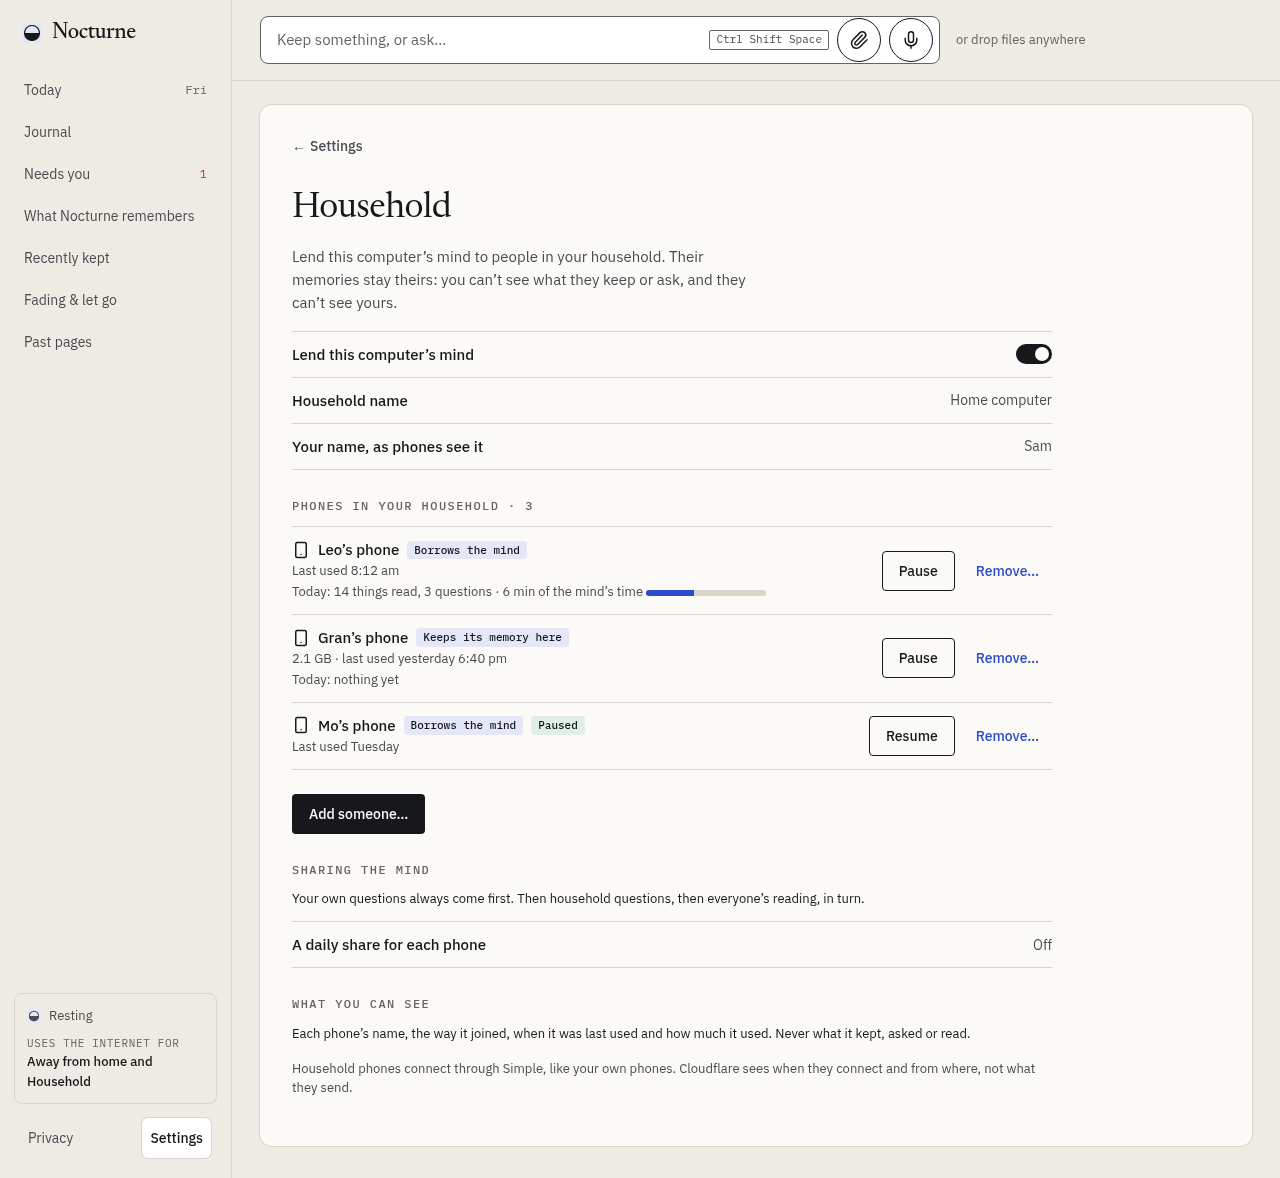
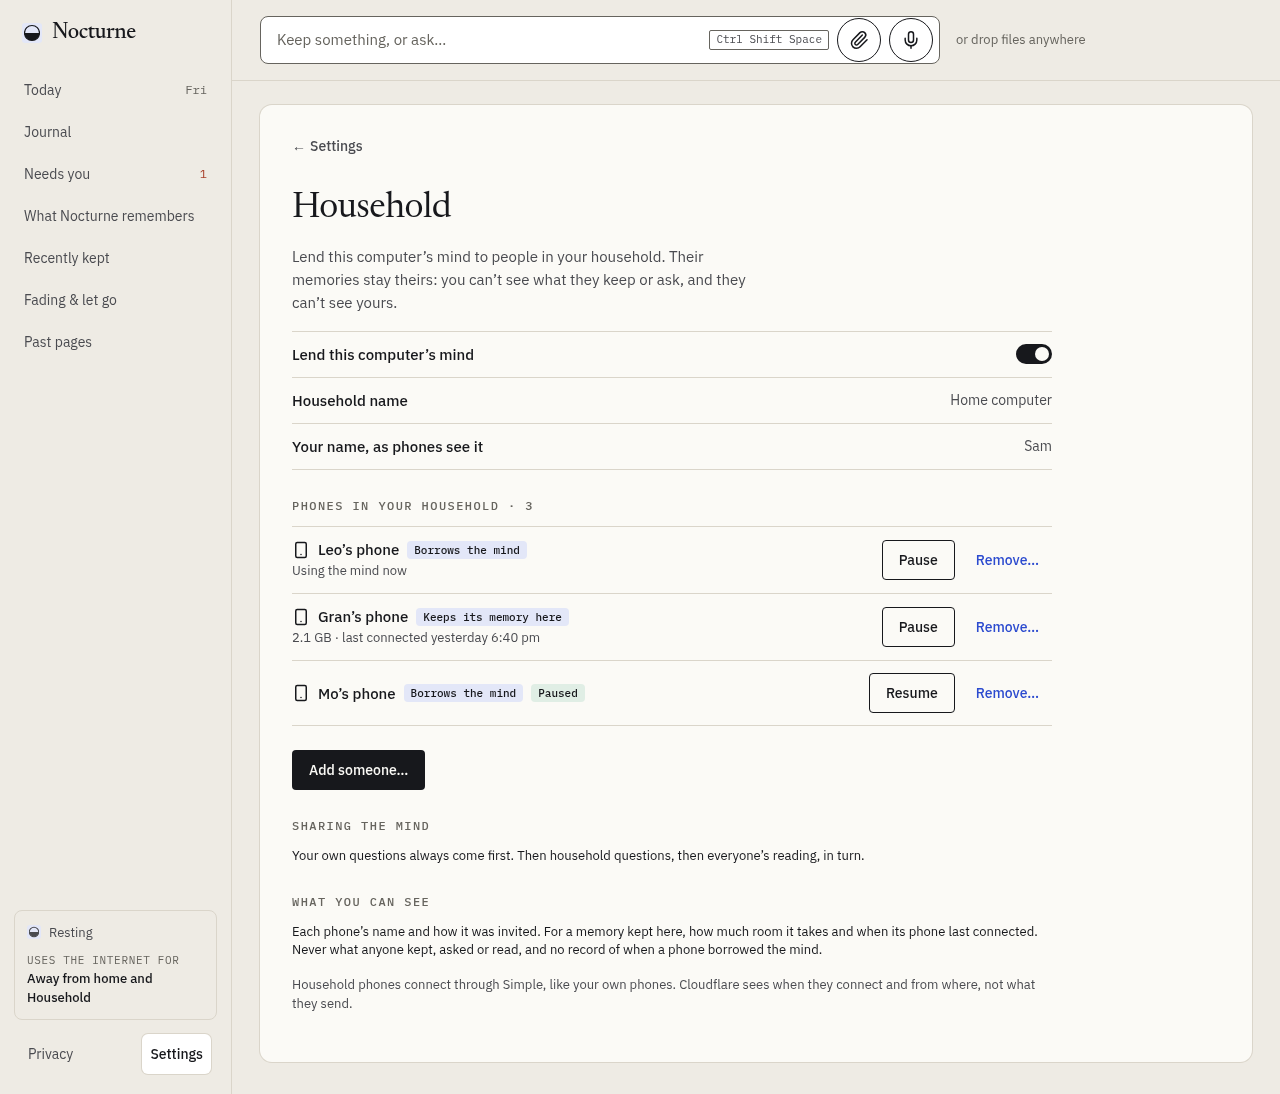
docs(design): redraw the household mockups

diff --git a/docs/design/mockups/phone-parity/desktop-household.html b/docs/design/mockups/phone-parity/desktop-household.html
@@ -24,15 +24,15 @@
       <h2 class="label">Phones in your household · 3</h2>
       <ul class="oRows">
         <li class="oRow hhRow">
-          <span class="oText"><span class="oLabel"><span data-icon="phone" data-size="18"></span>Leo’s phone <span class="wayTag">Borrows the mind</span></span><span class="oHint">Last used 8:12 am</span><span class="oHint">Today: 14 things read, 3 questions · 6 min of the mind’s time <span class="useBar"><span style="width: 40%"></span></span></span></span>
+          <span class="oText"><span class="oLabel"><span data-icon="phone" data-size="18"></span>Leo’s phone <span class="wayTag">Borrows the mind</span></span><span class="oHint">Using the mind now</span></span>
           <span class="oActs"><span class="button" data-variant="secondary">Pause</span><span class="button" data-variant="quiet">Remove…</span></span>
         </li>
         <li class="oRow hhRow">
-          <span class="oText"><span class="oLabel"><span data-icon="phone" data-size="18"></span>Gran’s phone <span class="wayTag">Keeps its memory here</span></span><span class="oHint">2.1 GB · last used yesterday 6:40 pm</span><span class="oHint">Today: nothing yet</span></span>
+          <span class="oText"><span class="oLabel"><span data-icon="phone" data-size="18"></span>Gran’s phone <span class="wayTag">Keeps its memory here</span></span><span class="oHint">2.1 GB · last connected yesterday 6:40 pm</span></span>
           <span class="oActs"><span class="button" data-variant="secondary">Pause</span><span class="button" data-variant="quiet">Remove…</span></span>
         </li>
         <li class="oRow hhRow">
-          <span class="oText"><span class="oLabel"><span data-icon="phone" data-size="18"></span>Mo’s phone <span class="wayTag">Borrows the mind</span> <span class="tagPaused">Paused</span></span><span class="oHint">Last used Tuesday</span></span>
+          <span class="oText"><span class="oLabel"><span data-icon="phone" data-size="18"></span>Mo’s phone <span class="wayTag">Borrows the mind</span> <span class="tagPaused">Paused</span></span></span>
           <span class="oActs"><span class="button" data-variant="secondary">Resume</span><span class="button" data-variant="quiet">Remove…</span></span>
         </li>
       </ul>
@@ -42,12 +42,11 @@
     <div class="section" style="padding-top: var(--s-3)">
       <h2 class="label">Sharing the mind</h2>
       <p class="small" style="color: var(--ink)">Your own questions always come first. Then household questions, then everyone’s reading, in turn.</p>
-      <ul class="oRows"><li class="oRow"><span class="oText"><span class="oLabel">A daily share for each phone</span></span><span class="oValue">Off</span></li></ul>
     </div>
 
     <div class="section" style="padding-top: var(--s-3)">
       <h2 class="label">What you can see</h2>
-      <p class="small" style="color: var(--ink)">Each phone’s name, the way it joined, when it was last used and how much it used. Never what it kept, asked or read.</p>
+      <p class="small" style="color: var(--ink)">Each phone’s name and how it was invited. For a memory kept here, how much room it takes and when its phone last connected. Never what anyone kept, asked or read, and no record of when a phone borrowed the mind.</p>
     </div>
     <p class="small">Household phones connect through Simple, like your own phones. Cloudflare sees when they connect and from where, not what they send.</p>
   </div>
@@ -56,6 +55,11 @@
   <div data-state="add" style="display: flex; flex-direction: column; gap: var(--s-4); max-width: 720px">
     <a class="back" href="#"><span aria-hidden="true">←</span> Household</a>
     <h1 class="stepTitle">Add someone to your household</h1>
+    <p class="label" style="margin: 0">How should this computer help them?</p>
+    <div class="choices" style="display: flex; flex-direction: column; gap: var(--s-2)">
+      <label class="oRow" style="display: flex; justify-content: flex-start; align-items: flex-start; gap: var(--s-3)"><input type="radio" name="way" checked> <span class="oText"><span class="oLabel">Borrow its mind</span><span class="oHint">Their memory stays on their phone. This computer reads and answers for them and keeps nothing of theirs.</span></span></label>
+      <label class="oRow" style="display: flex; justify-content: flex-start; align-items: flex-start; gap: var(--s-3)"><input type="radio" name="way"> <span class="oText"><span class="oLabel">Keep their memory here</span><span class="oHint">Their memory moves here and lives here, locked with a key their phone holds. Their phone then works with it.</span></span></label>
+    </div>
     <p class="lead">Ask them to open Nocturne on their phone, choose Join a household, and scan this.</p>
     <div style="display: flex; gap: var(--s-6); align-items: flex-start">
       <span class="qrBox"><span data-qr="200"></span></span>
@@ -66,7 +70,7 @@
         <p class="small">This code works for 5 minutes, once.</p>
       </div>
     </div>
-    <p class="notice" style="padding: var(--s-3); border-radius: var(--r-md); background: var(--accent-soft)">Anyone with this code can ask to join. You still choose Allow, and you see the way they want to join first.</p>
+    <p class="notice" style="padding: var(--s-3); border-radius: var(--r-md); background: var(--accent-soft)">Anyone with this code can ask to join, only in the way you chose. You still choose Allow.</p>
     <div class="buttons"><span class="button" data-variant="primary">Done</span></div>
   </div>
 </div>
@@ -77,7 +81,7 @@
       <h2 id="at" class="dialogTitle">Allow Leo’s phone to join your household?</h2>
       <p class="muted">Check Leo’s phone shows the same three words.</p>
       <p style="font: 400 1.5rem / 1.3 var(--font-serif)">harbour · violet · kettle</p>
-      <p><strong style="font-weight: 500">It wants to borrow this computer’s mind.</strong><br>Its memory stays on its phone. This computer reads and answers for it and keeps nothing.</p>
+      <p><strong style="font-weight: 500">You invited it to borrow this computer’s mind.</strong><br>Its memory stays on its phone. This computer reads and answers for it and keeps nothing of it.</p>
       <p class="small">If a phone that isn’t showing three words asks to join, someone else is trying. Don’t allow it.</p>
       <div class="buttons" style="justify-content: flex-end">
         <span class="button" data-variant="secondary" style="box-shadow: 0 0 0 2px var(--sheet), 0 0 0 4px var(--accent)">Don’t allow</span>

diff --git a/docs/design/mockups/phone-parity/household.html b/docs/design/mockups/phone-parity/household.html
@@ -15,7 +15,7 @@
 }
 </script>
 </head>
-<body data-frame="duo" data-states="found choose see passphrase words joined">
+<body data-frame="duo" data-states="found see passphrase words joined">
 <main id="content">
 
   <!-- Found -->
@@ -23,18 +23,9 @@
     <span data-icon="laptop" data-size="36"></span>
     <h1 class="stepH">Join Hallway’s household?</h1>
     <p class="pstatus"><span data-icon="user" data-size="16"></span>Run by Tom</p>
-    <p class="plead">Hallway is a computer at home that runs Nocturne. Next, choose how it should help you.</p>
+    <p class="plead">Tom invited this phone to borrow Hallway’s mind. Hallway is a computer at home that runs Nocturne.</p>
   </div>
   <div class="foot" data-state="found"><span class="btn" data-kind="primary">Continue</span><span class="btn" data-kind="quiet">Cancel</span></div>
-
-  <!-- How should it help you? -->
-  <h1 class="stepH" data-state="choose">How should Hallway help you?</h1>
-  <div class="choices" data-state="choose">
-    <div class="choice" data-on><span class="rad"></span><span><strong>Borrow its mind</strong><span class="hint">Your memory stays on this phone. Hallway reads and answers for you, and keeps nothing.</span></span></div>
-    <div class="choice"><span class="rad"></span><span><strong>Keep my memory there</strong><span class="hint">Hallway keeps your memory, locked with a key this phone holds, and reads it overnight. This phone keeps what you add until it can reach Hallway.</span></span></div>
-  </div>
-  <p class="small" data-state="choose">You can change this later.</p>
-  <div class="foot" data-state="choose"><span class="btn" data-kind="primary">Continue</span><span class="btn" data-kind="quiet">Back</span></div>
 
   <!-- What the person who runs it can see (borrowing) -->
   <h1 class="stepH" data-state="see">What Tom can see</h1>
@@ -42,15 +33,16 @@
   <ul class="see" data-state="see">
     <li><span data-icon="check" data-size="18"></span><span>This phone’s name</span></li>
     <li><span data-icon="check" data-size="18"></span><span>That it borrows Hallway’s mind</span></li>
-    <li><span data-icon="check" data-size="18"></span><span>When it last used it, and how much: how many things were read, how many questions, and the mind’s time</span></li>
+    <li><span data-icon="check" data-size="18"></span><span>Whether it is using the mind right now</span></li>
   </ul>
   <p class="seeHead" data-state="see">Tom can’t see, in Nocturne</p>
   <ul class="see no" data-state="see">
     <li><span data-icon="x" data-size="18"></span><span>What you keep, ask or write</span></li>
     <li><span data-icon="x" data-size="18"></span><span>Your answers, your page or your journal</span></li>
     <li><span data-icon="x" data-size="18"></span><span>Your calendar and health</span></li>
+    <li><span data-icon="x" data-size="18"></span><span>When or how much you used the mind</span></li>
   </ul>
-  <p class="small" data-state="see" style="color: var(--ink)">Hallway reads each thing in its memory while it works on it, then lets it go. It keeps nothing, and no record of what it read. Things you marked private never go to Hallway. No one else in the household sees anything of yours, and you see nothing of theirs.</p>
+  <p class="small" data-state="see" style="color: var(--ink)">Hallway reads each thing in its memory while it works on it, then lets it go. It keeps nothing of yours: no copy, no file, and no record of what it read or when. It keeps only this phone’s name and the key that lets it in. Things you marked private never go to Hallway. No one else in the household sees anything of yours, and you see nothing of theirs.</p>
   <p class="limit" data-state="see">Someone with full control of Hallway could change Nocturne on it to look at what it reads. Nocturne can’t prevent that. Join only a household you trust.</p>
   <div class="foot" data-state="see"><span class="btn" data-kind="primary">Continue</span><span class="btn" data-kind="quiet">Back</span></div>
 

diff --git a/docs/design/mockups/phone-parity/this-phone.html b/docs/design/mockups/phone-parity/this-phone.html
@@ -35,10 +35,10 @@
   <div class="group" data-state="guest member">
     <p class="ghead">Household</p>
     <div class="rows">
-      <div class="row"><span data-icon="laptop" data-size="22"></span><span class="rowText"><span class="rowLabel">Hallway</span><span class="rowHint" data-state="guest">Run by Tom · borrows its mind</span><span class="rowHint" data-state="member">Run by Tom · keeps your memory</span></span></div>
+      <div class="row"><span data-icon="laptop" data-size="22"></span><span class="rowText"><span class="rowLabel">Hallway</span><span class="rowHint" data-state="guest">Run by Tom · borrows its mind</span><span class="rowHint" data-state="member">Run by Tom · your memory’s home</span></span></div>
       <div class="row"><span class="rowText"><span class="rowLabel">What Tom can see</span></span><span class="rowChev" data-icon="chevron-right" data-size="18"></span></div>
       <div class="row" data-state="guest"><span class="rowText"><span class="rowLabel">This month</span><span class="rowHint">214 things read, 31 questions</span></span></div>
-      <div class="row" data-state="guest"><span class="rowText"><span class="rowLabel">Change how Hallway helps you…</span></span><span class="rowChev" data-icon="chevron-right" data-size="18"></span></div>
+      <div class="row" data-state="guest"><span class="rowText"><span class="rowLabel">Keep my memory on Hallway…</span></span><span class="rowChev" data-icon="chevron-right" data-size="18"></span></div>
       <div class="row" data-state="member"><span class="rowText"><span class="rowLabel">Move my memory…</span></span><span class="rowChev" data-icon="chevron-right" data-size="18"></span></div>
       <div class="row"><span class="rowText"><span class="rowLabel" style="color: var(--ember)">Leave this household…</span></span></div>
     </div>

diff --git a/docs/design/mockups/phone-parity/index.html b/docs/design/mockups/phone-parity/index.html
@@ -39,9 +39,8 @@
   <h2 class="t-ui-title">A household</h2>
   <ol>
     <li><a href="household.html?state=found">Join Hallway’s household?</a></li>
-    <li><a href="household.html?state=choose">How should Hallway help you?</a></li>
     <li><a href="household.html?state=see">What Tom can see</a></li>
-    <li><a href="household.html?state=passphrase">A passphrase for a memory kept there</a></li>
+    <li><a href="household.html?state=passphrase">A passphrase, making Hallway your home</a></li>
     <li><a href="household.html?state=words">Three words</a></li>
     <li><a href="household.html?state=joined">Joined</a></li>
     <li><a href="away.html?state=today">Hallway out of reach, still recording</a></li>

diff --git a/docs/design/phone-parity.md b/docs/design/phone-parity.md
@@ -36,22 +36,6 @@ Android (412 by 892) and iPhone (393 by 852) side by side, rendered 920 by 1000.
 are 1280 wide, full length. A dashed outline marks what is new on an existing screen; it is not part
 of the design. All names and data are fictional.
 
-The owner's decisions changed the household. Where a mockup still shows a phone choosing "Keep my
-memory there" while joining, a passphrase for it, or per-phone use counts for a phone that only
-borrows the mind, the words on [A household computer](household-server.md) win until the mockups
-are redrawn.
-
-| Screen | File and states | Page |
-|---|---|---|
-| First run on a phone, and Today with no mind | `first-run.html`: `welcome`, `start`, `today`, `ask` | [Phone first](phone-first.md#screens) |
-| A locked copy online | `copy-online.html`: `why`, `passphrase`, `on` | [Phone first](phone-first.md#a-locked-copy-online) |
-| Choosing a mind | `mind.html`: `choose`, `service`, `consent`, `apple`, `first-page` | [Phone first](phone-first.md#choosing-a-mind) |
-| Joining a household | `household.html`: `found`, `see`, `words`, `joined` (the `choose` and `passphrase` states are superseded, below) | [Household](household-server.md#joining) |
-| The mind is away | `away.html`: `today`, `journal`, `back`, `removed` | [Household](household-server.md#states) |
-| This phone in each mode | `this-phone.html`: `alone`, `guest`, `member` | [Phone first](phone-first.md#8-this-phone), [Household](household-server.md#this-phone) |
-| The household on a computer | `desktop-household.html`: `household`, `add`, `allow`, `remove`, `off` | [Household](household-server.md#on-the-computer-that-runs-it) |
-| Moving your memory | `move.html`: `found`, `size`, `moving`, `moved`; `desktop-move.html`: `receive`, `done` | [Moving](moving-memory.md#screens) |
-
 ## Goals
 
 1. **Start anywhere.** A person can install Nocturne on a phone with no computer and use it from the

diff --git a/docs/design/household-server.md b/docs/design/household-server.md
@@ -24,16 +24,13 @@ In `docs/design/mockups/phone-parity/`.
 
 | Screen | File and states | Renders |
 |---|---|---|
-| Joining, on the phone | `household.html`: `found`, `see`, `words`, `joined` | `household-found-light.png`, `household-see-light.png`, `household-words-light.png`, `household-joined-light.png` |
+| Joining, on the phone | `household.html`: `found`, `see`, `words`, `joined`; `passphrase` for [making it your home](#making-a-household-computer-your-home) | `household-found-light.png`, `household-see-light.png`, `household-words-light.png`, `household-joined-light.png`, `household-passphrase-light.png` |
 | The mind is away, removed | `away.html`: `today`, `journal`, `back`, `removed` | `away-today-light.png`, `away-today-dark.png`, `away-journal-light.png`, `away-back-light.png`, `away-removed-light.png` |
 | This phone, in a household | `this-phone.html`: `guest`, `member` | `this-phone-guest-light.png`, `this-phone-member-light.png` |
 | The household, on the computer | `desktop-household.html`: `household`, `add`, `allow`, `remove`, `off` | `desktop-household-light.png`, `desktop-household-dark.png`, `desktop-household-add-light.png`, `desktop-household-allow-light.png`, `desktop-household-remove-light.png`, `desktop-household-off-light.png` |
 
-The owner's decisions changed this page after the mockups were drawn. Until they are redrawn, the
-words here win where a mockup differs: `household.html` `choose` and `passphrase` are superseded
-(joining has no choice; a passphrase belongs to [making it your home](#making-a-household-computer-your-home)),
-and the use counts on borrowing phones in `desktop-household.html` and the "how much" line in
-`household-see` are gone.
+The found screen for a home and the household computer as someone's home on the phone are
+described here in words; they reuse the joining and companion layouts.
 
 ## Borrowing, and a home
 
